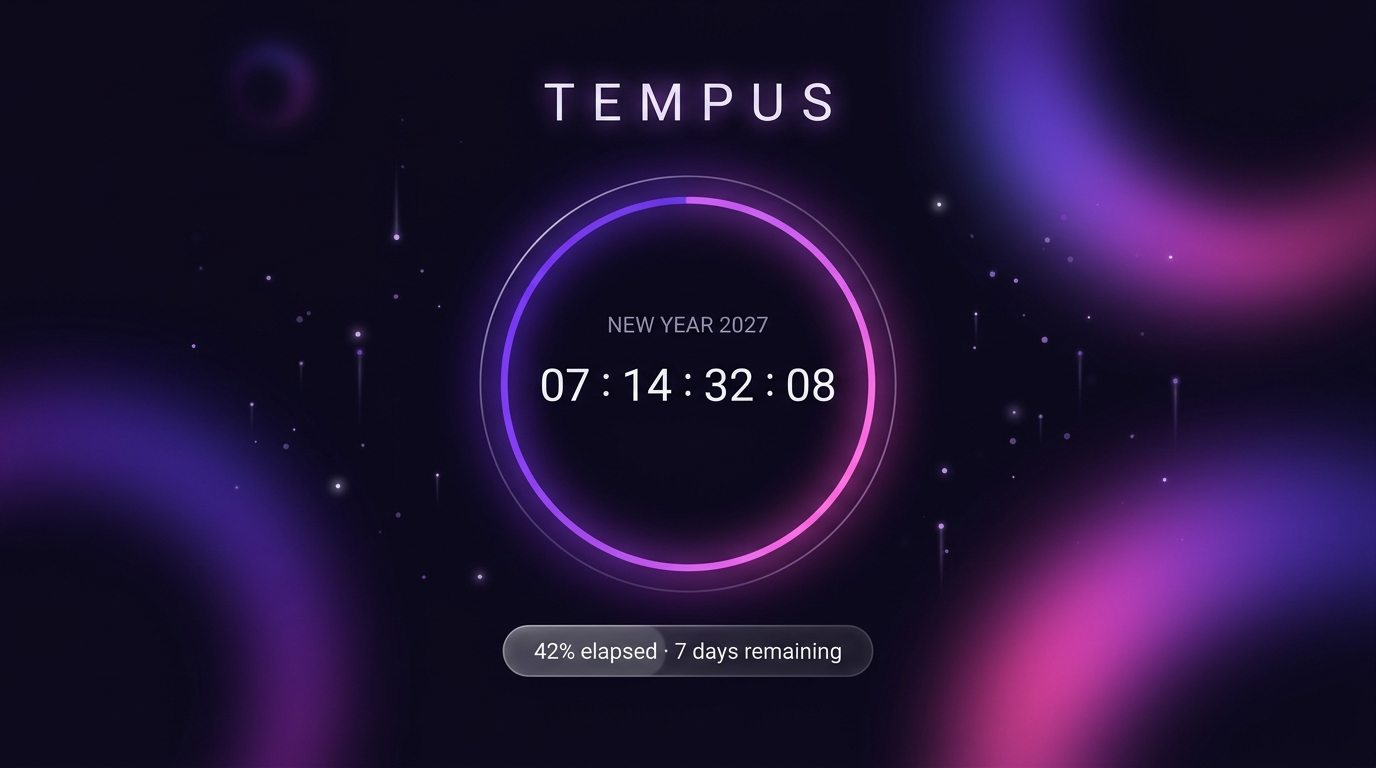
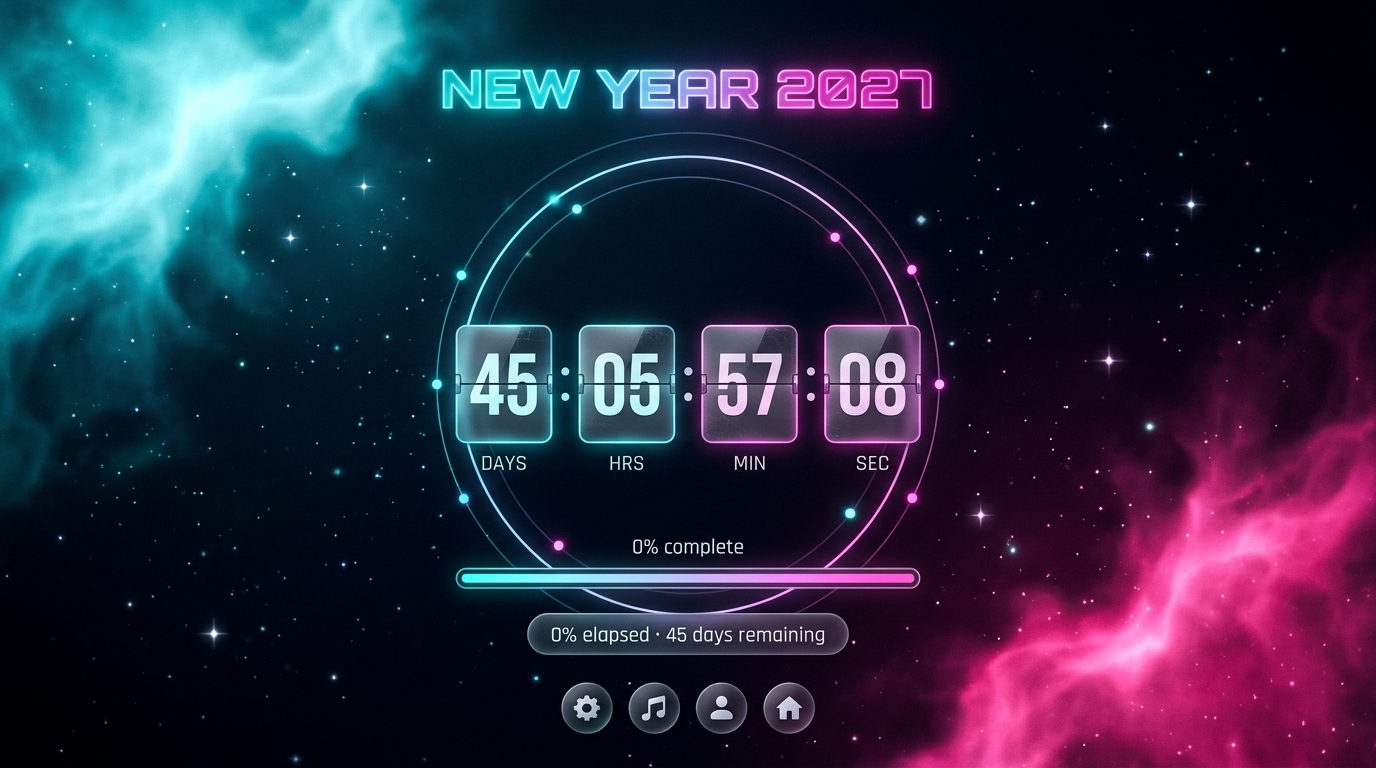
Fix: celebration no longer re-triggers when setting new countdown

diff --git a/app.js b/app.js
@@ -37,6 +37,8 @@
   let state = loadState();
   let wakeLockSentinel = null;
   let prevDigits = { d:'--', h:'--', m:'--', s:'--' };
+  let celebrationShown = false;
+  let settingsOpen = false;
 
   function defaultState() {
     const now = new Date();
@@ -290,7 +292,10 @@
       $('#progress-fill').style.width = '100%';
       $('#progress-glow').style.width = '100%';
       $('#progress-text').textContent = '100% complete';
-      showCelebration();
+      if (!celebrationShown && !settingsOpen) {
+        celebrationShown = true;
+        showCelebration();
+      }
       return;
     }
 
@@ -459,7 +464,10 @@
   //  SETTINGS
   // ═══════════════════════════════════════════════════════
   function openSettings() {
+    settingsOpen = true;
     $('#settings-panel').classList.remove('hidden');
+    $('#celebration').classList.add('hidden');
+    $('#confetti-canvas').classList.add('hidden');
     $('#event-name').value = state.eventName;
     const d = new Date(state.targetDate);
     const p = n => String(n).padStart(2,'0');
@@ -469,7 +477,10 @@
     applyTheme(state.theme);
   }
 
-  function closeSettings() { $('#settings-panel').classList.add('hidden'); }
+  function closeSettings() {
+    settingsOpen = false;
+    $('#settings-panel').classList.add('hidden');
+  }
 
   function saveSettings() {
     const name = $('#event-name').value.trim();
@@ -483,6 +494,7 @@
     state.showQuotes = $('#quotes-toggle').checked;
     localStorage.setItem('tempus_created', new Date().toISOString());
     prevDigits = { d:'--', h:'--', m:'--', s:'--' };
+    celebrationShown = false;
     saveState();
     closeSettings();
     $('#celebration').classList.add('hidden');
